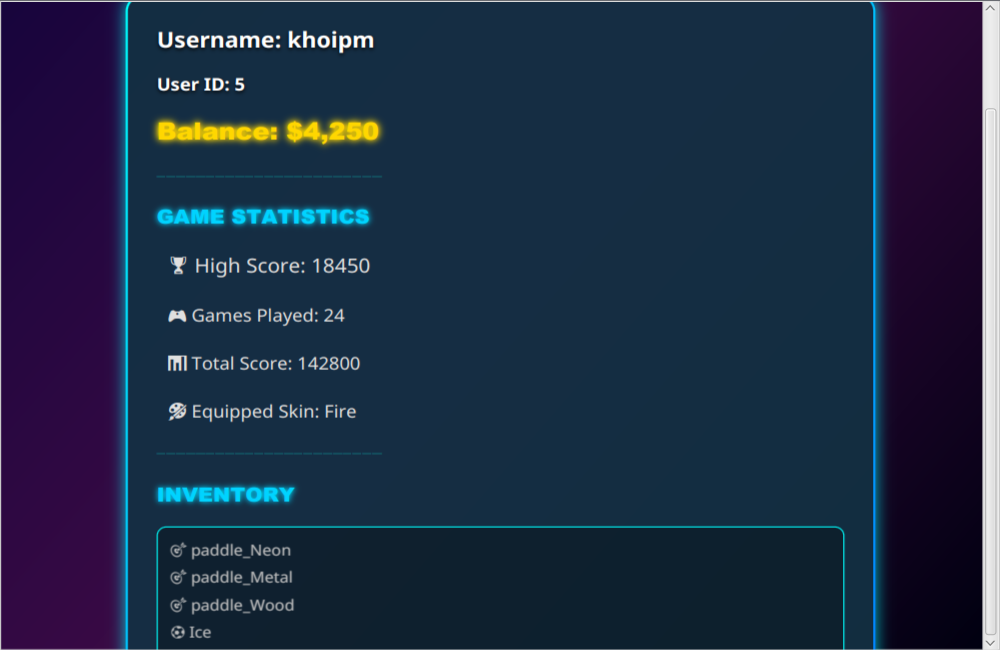
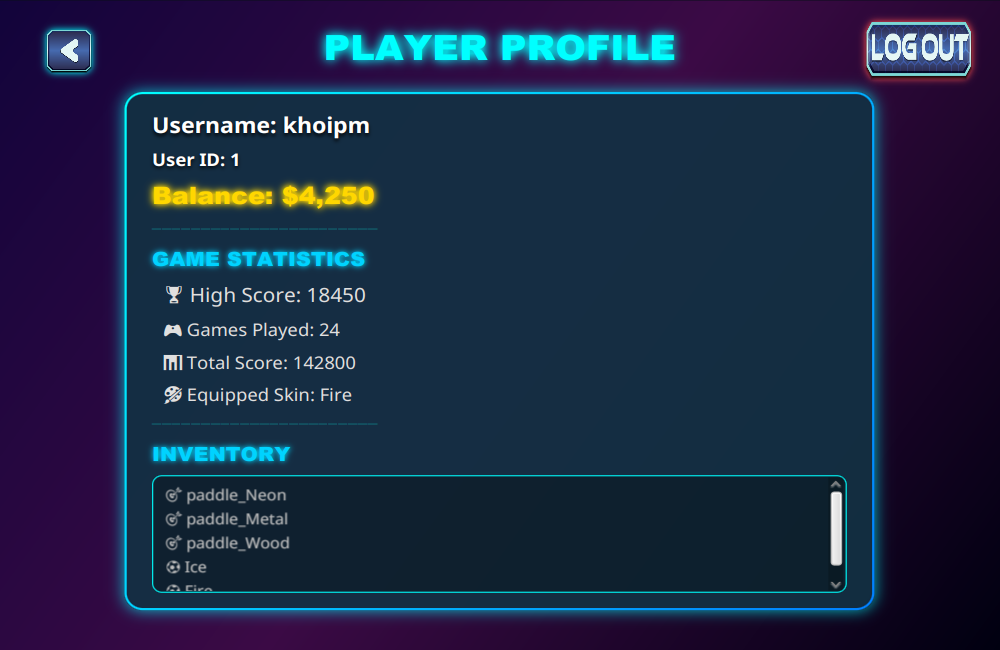
fix(ui): fit ProfileScreen within 868x597 and recapture img7

Changed region(s): [[0.031, 0.0, 1.0, 1.0], [0.0, 0.9846, 0.031, 1.0], [0.0, 0.0, 0.031, 0.0308]]

diff --git a/src/main/resources/com/arkanoid/ui/ProfileScreen.css b/src/main/resources/com/arkanoid/ui/ProfileScreen.css
@@ -33,7 +33,7 @@
   -fx-border-radius: 15;
   -fx-border-color: linear-gradient(to bottom right, #00ffff, #0080ff);
   -fx-border-width: 2;
-  -fx-padding: 25;
+  -fx-padding: 14 22 14 22;
   -fx-effect: dropshadow(gaussian, rgba(0, 255, 255, 0.5), 20, 0.4, 0, 0);
 }
 
@@ -74,7 +74,7 @@
 .stat-label {
   -fx-text-fill: #e0e0e0;
   -fx-font-size: 16px;
-  -fx-padding: 3 0 3 10;
+  -fx-padding: 1 0 1 10;
 }
 
 #highScoreLabel {
@@ -107,8 +107,8 @@
 .inventory-label {
   -fx-text-fill: #c0c0c0;
   -fx-font-size: 14px;
-  -fx-padding: 10;
-  -fx-line-spacing: 5;
+  -fx-padding: 6 10 6 10;
+  -fx-line-spacing: 2;
 }
 
 /* Back Button */
